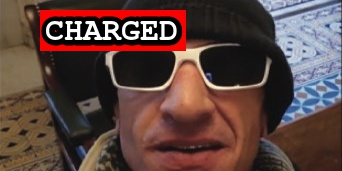
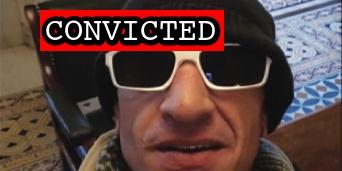
Thurlow conviction

Changed region(s): [[0.117, 0.0292, 0.6725, 0.3216]]

diff --git a/docs/_suspects/steven-thurlow.md b/docs/_suspects/steven-thurlow.md
@@ -4,16 +4,18 @@ lastName: Thurlow
 hashtag: StevenThurlow
 aka: Stephanie Danielle Thurlow
 residence: Michigan
-status: Charged
+status: Convicted
 date: 2021-06-24
 charged: 2021-06-24
 indicted:
-convicted:
+convicted: 2022-05-09
+acquitted:
 sentenced:
 dismissed:
 deceased:
-plea_hearing:
-sentencing:
+plea_hearing: 2022-05-09
+trial_date:
+sentencing: 2022-08-04
 age: 50
 occupation:
 affiliations: U.S. Army Veteran, Boogaloo Bois
@@ -25,7 +27,7 @@ courtroom:
 courthouse:
 raid:
 perpwalk:
-quote: 'Ahh nothing like a new pair of 511’s and fresh set of level IV SAPI’s in the plate carrier to go “peacefully protest” with.'
+quote: "Ahh nothing like a new pair of 511’s and fresh set of level IV SAPI’s in the plate carrier to go “peacefully protest” with."
 title: Steven Thurlow charged on June 24, 2021
 description: Click for latest case details. Suspects innocent until proven guilty.
 author: seditiontrack
@@ -34,8 +36,13 @@ published: true
 caseNumber: 1:21-mj-494
 videos:
 charges:
+  - code: 40 USC § 5104(e)(2)(G)
+    title: Parading, demonstrating or picketing in a Capitol building
+    url: https://www.law.cornell.edu/uscode/text/40/5104
+    felony: false
 sentence:
 ---
+
 - [News Report](https://www.macombdaily.com/2021/06/30/st-clair-shores-man-accused-of-participating-in-jan-6-capitol-insurrection/)
 - [Statement of Facts](https://www.justice.gov/usao-dc/case-multi-defendant/file/1407971/download)
 - [Information](https://www.justice.gov/usao-dc/case-multi-defendant/file/1461546/download)
